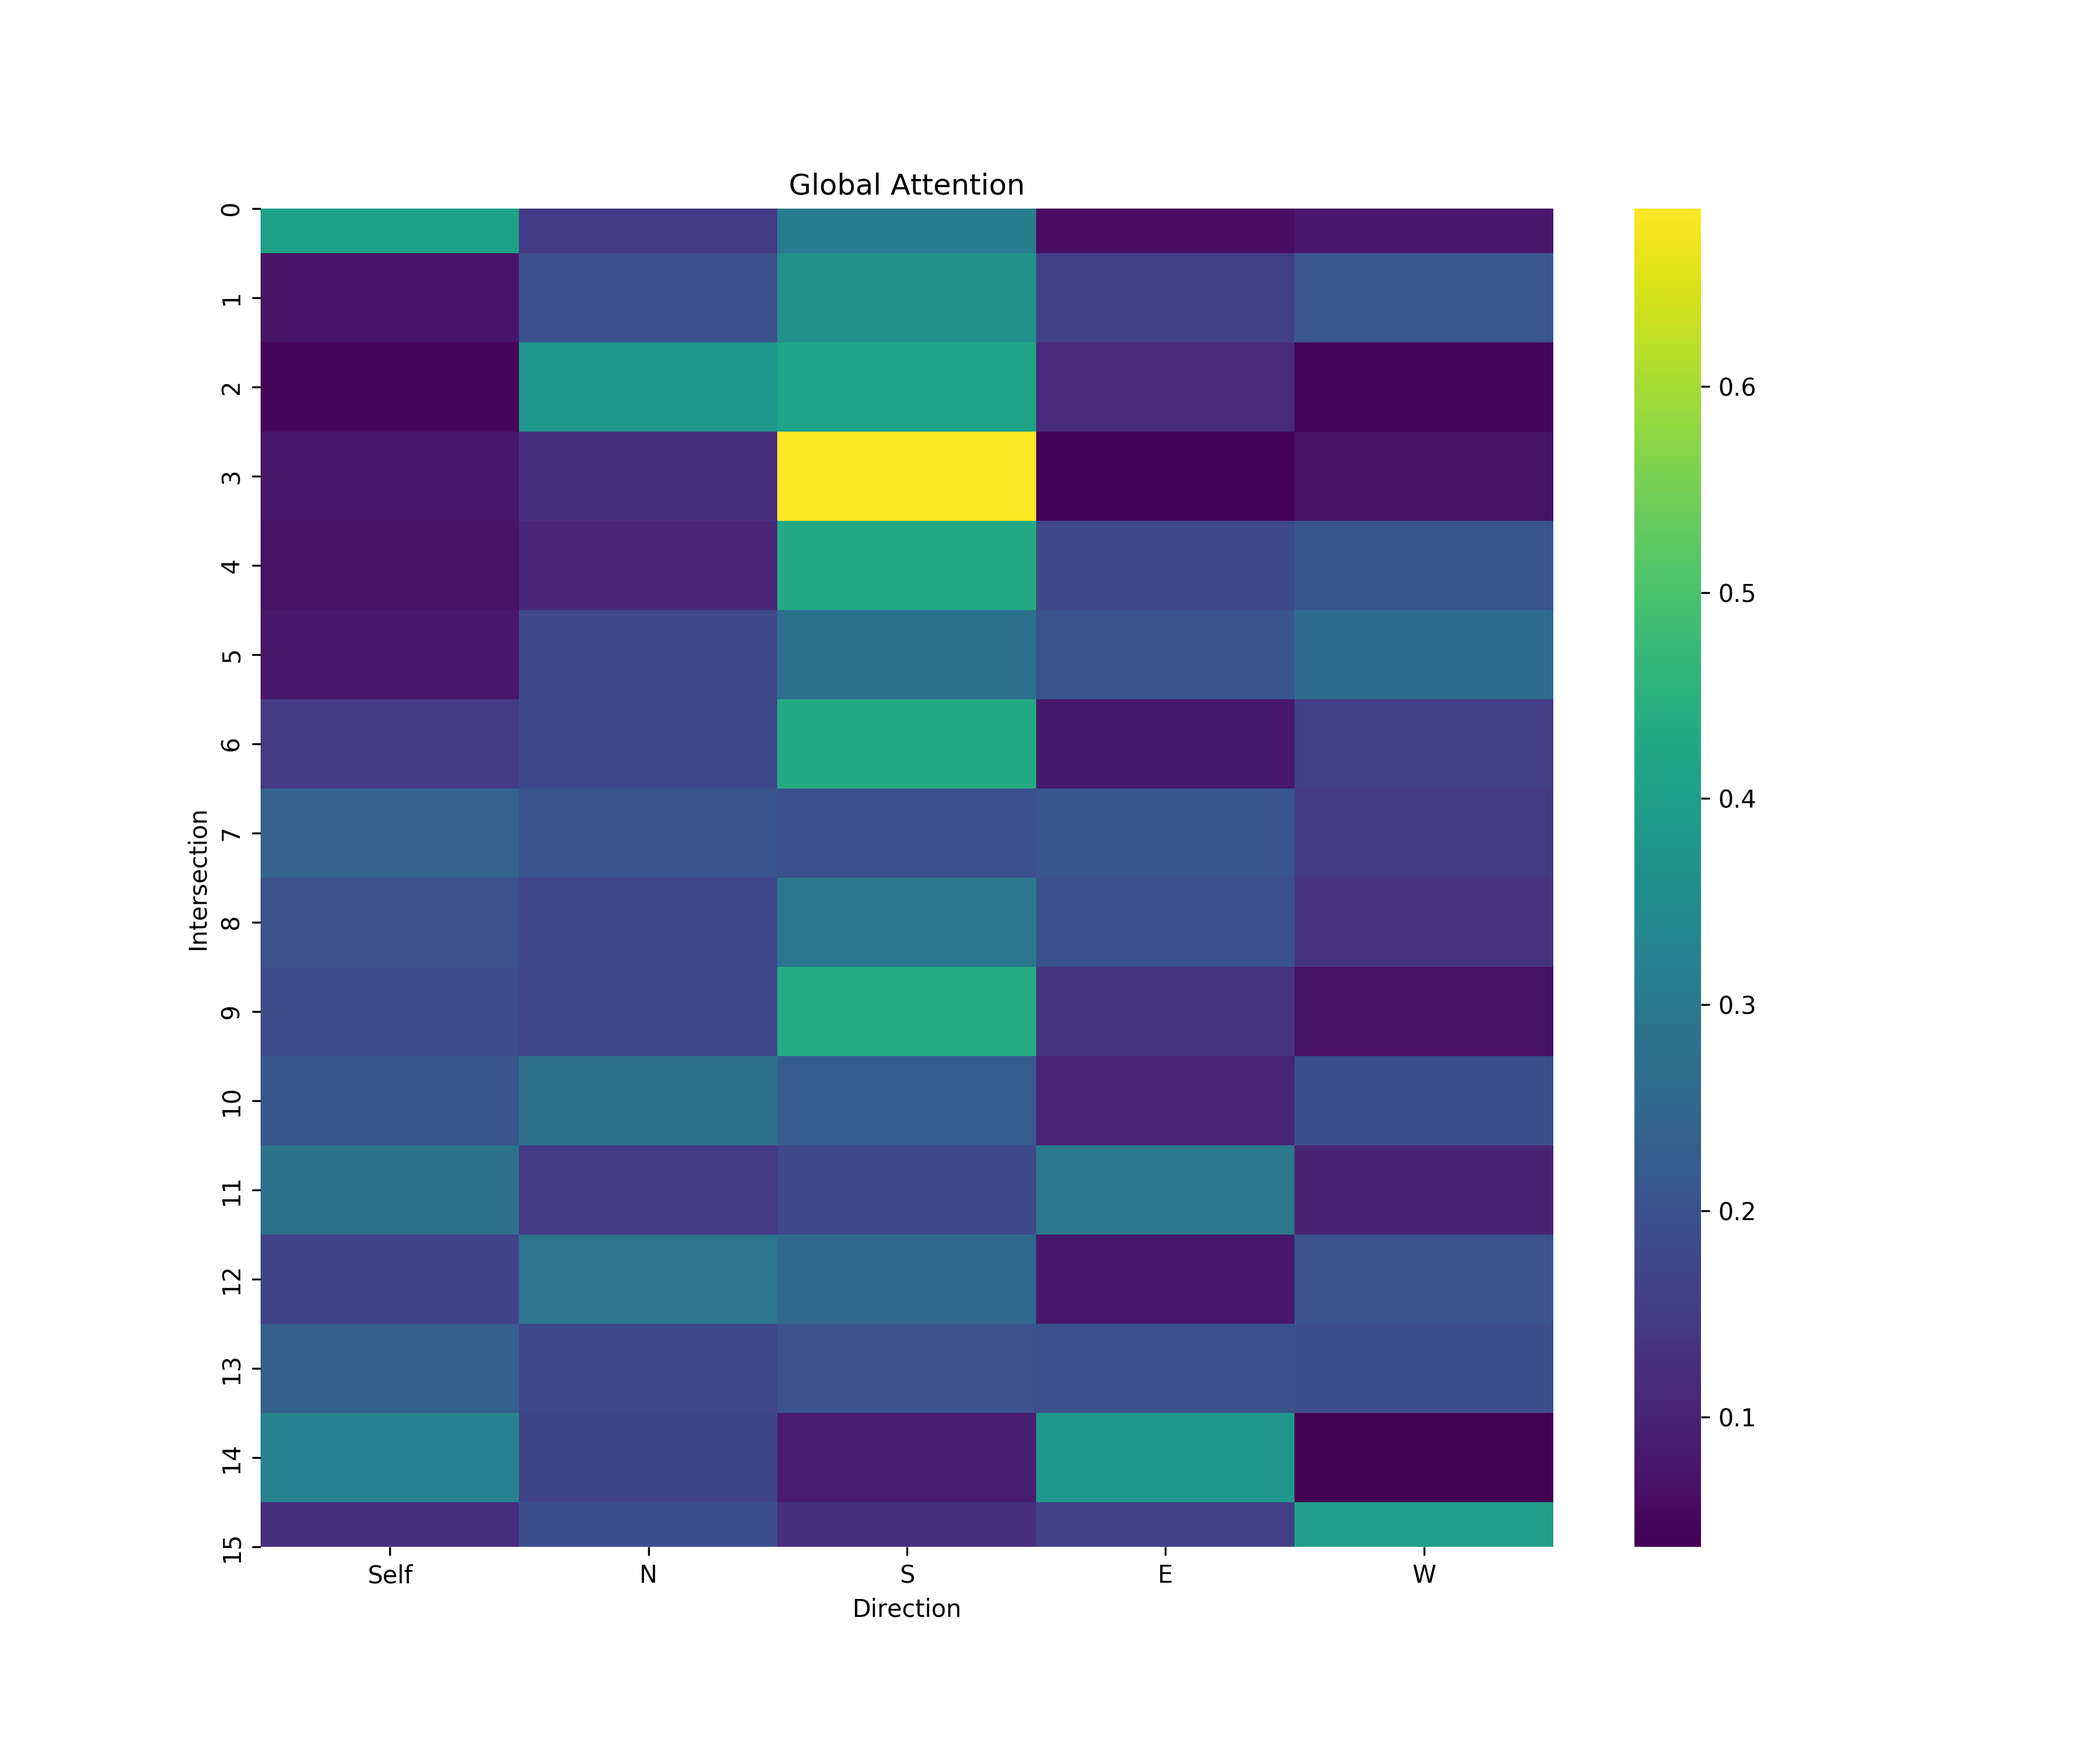
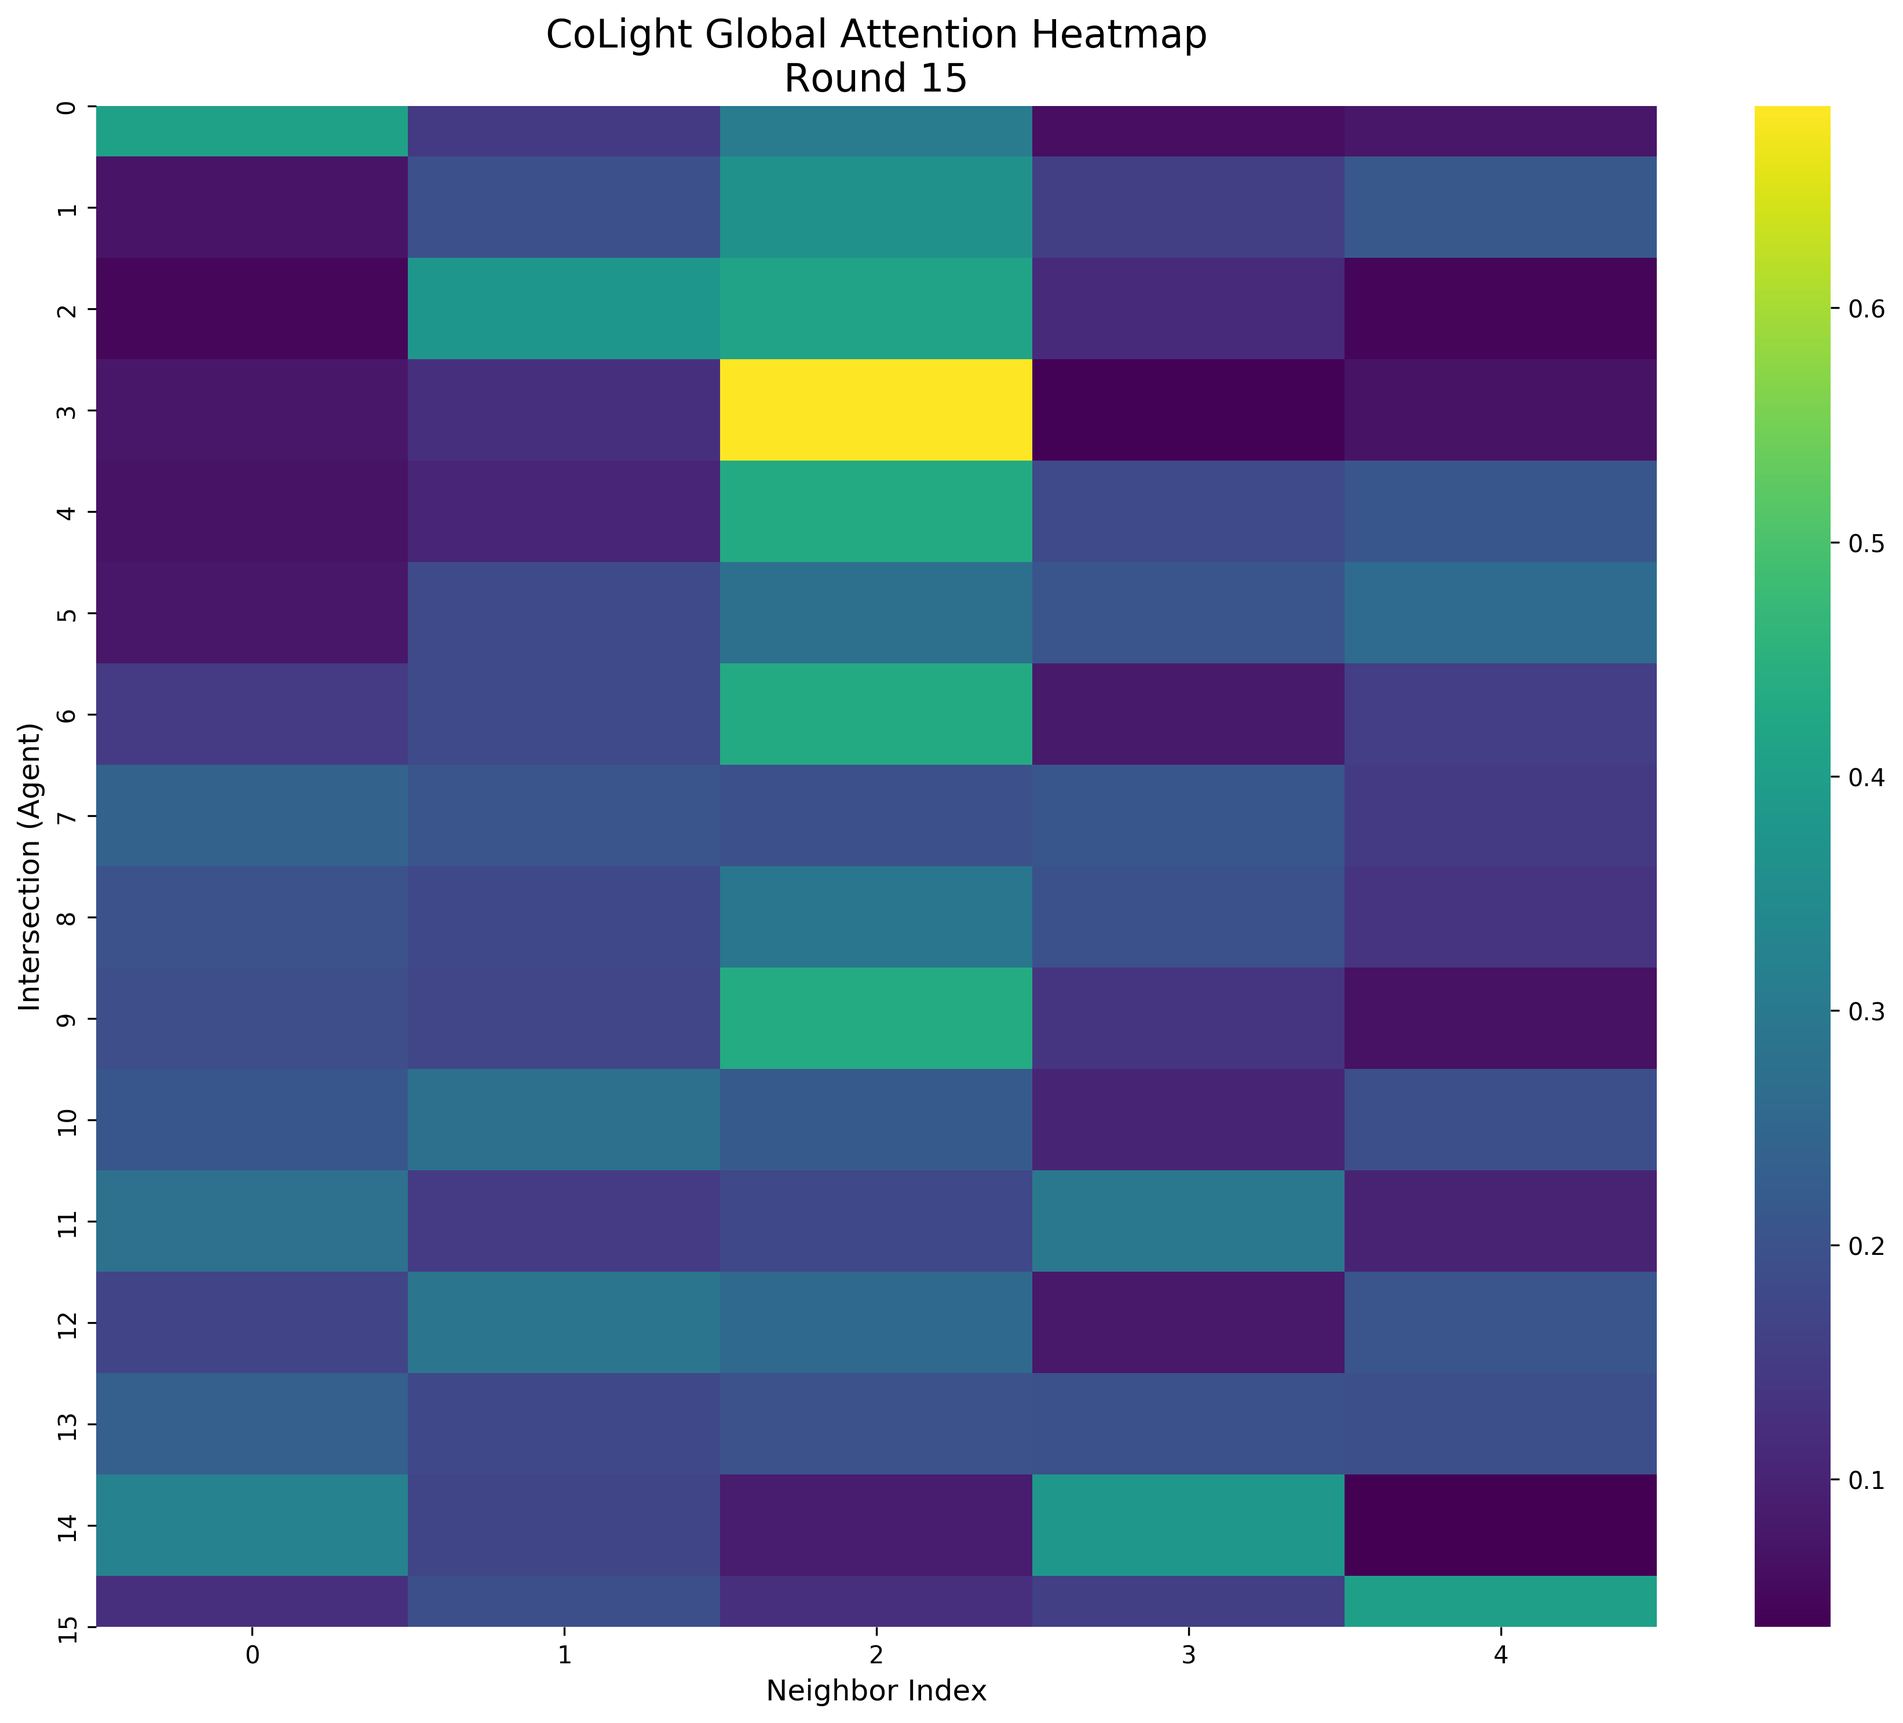
add new attention heatmaps for expirements plots in round 1 and round 29

diff --git a/plot_attention.py b/plot_attention.py
@@ -8,11 +8,11 @@ import os
 # CONFIG
 # ==================================================
 
-EXP_NAME = "exp2-1"
+EXP_NAME = "exp2-4"
 
-BASE_PATH = f"records/{EXP_NAME}/anon_4_4_hangzhou_real.json_05_06_19_36_42/test_round"
+BASE_PATH = f"records/{EXP_NAME}/anon_4_4_hangzhou_real.json_05_07_08_03_10/test_round"
 
-ROUND = 1
+ROUND = 29
 
 SAVE_DIR = os.path.join(
     f"records/{EXP_NAME}",
